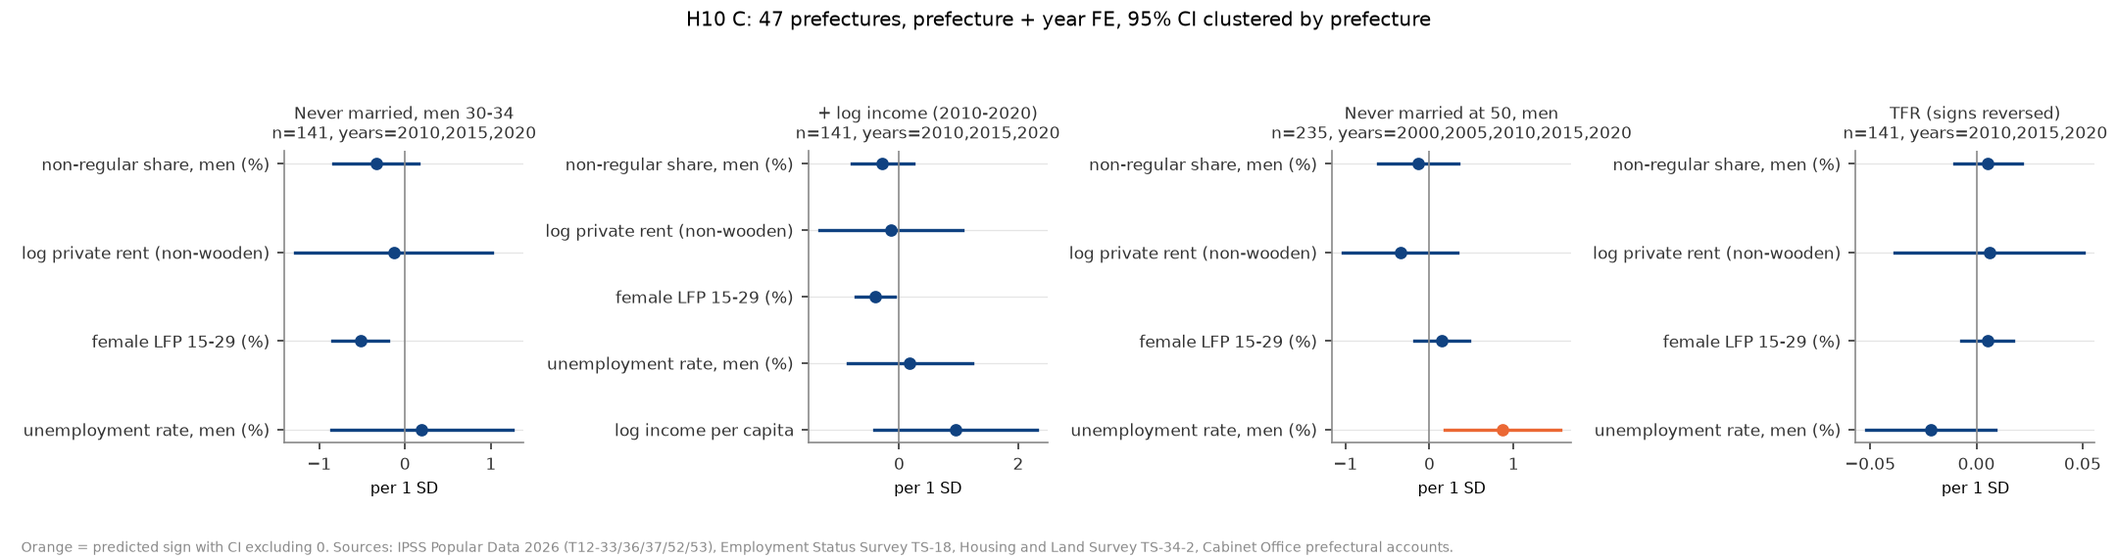
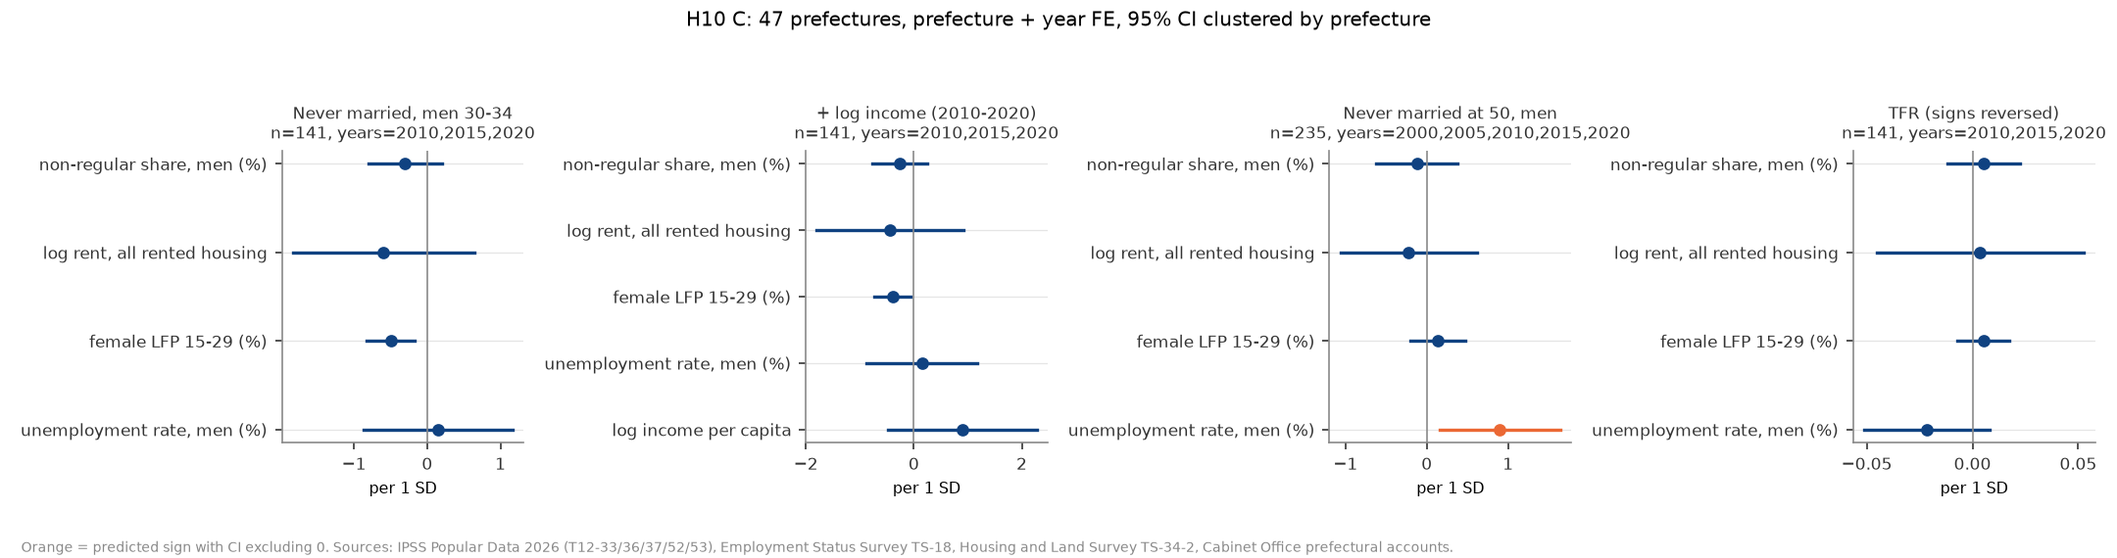
fix(growth-fertility): H10 review 対応（盲検でない旨、範囲の限定、家賃を借家総数に、検出力と残差の注記）

diff --git a/themes/growth-fertility/src/theme_growth_fertility/analysis/a20261018_h10_family_formation.py b/themes/growth-fertility/src/theme_growth_fertility/analysis/a20261018_h10_family_formation.py
@@ -20,7 +20,9 @@ A・B・C、判定規則、
   A(失業)・C(所得・失業)、
      W = C(女性労働力率)。適用できる検定の過半で「予測符号かつ CI∌0」なら支持。
 
-運用の細則（design に書かれていない点。最初の実行より前にここで固定し、stdout の冒頭に出す）:
+運用の細則（design に書かれていない点。stdout の冒頭に要点を出す）。
+細則は mart の構造（欠落年・時点数）を見た後に書いたもので盲検ではない。
+実行前に固定したことは commit 履歴では確かめられない。
   - A の結果変数の出典は国ごとに 1 つ: 日本は IPSS T06-12（初婚年齢）、Eurostat の 16 か国は
       demo_nind
     （FAGEMAR1・GNUPRT）、それ以外（英・米・韓、日本の婚姻率）は OECD SF3.1（MAFM・CMR）。第 1 子
@@ -38,8 +40,10 @@ A・B・C、判定規則、
     細分類（パート・アルバイト・
     派遣・契約）の和に両年でそろえる（定義をそろえた下限）。
   - C の説明変数: 非正規比率 = 男性 非正規 /（正規 + 非正規）%（総数は探索的に併記）、家賃 = log
-      民営借家
-    （非木造）1 か月家賃、女性労働力率 = 女 15–29 歳（T12-52）、失業率 = 男（T12-53）、所得 = log 1
+      借家総数の
+      1 か月家賃（review 後に主仕様へ。最初の実行の主仕様は民営借家（非木造）で、それを選んだのは
+      事後の選択。非木造版は頑健性として併記）、女性労働力率 = 女 15–29 歳（T12-52）、失業率 =
+      男（T12-53）、所得 = log 1
     人当たり
     県民所得。最近傍年は ±5 年（同距離は前の年）。女性労働力率は 1980/2000/2010/2020 しか無いため、
     主仕様は事実上 2010/2015/2020 になる（1990 は女性労働力率なしの仕様を探索的に併記）。
@@ -118,7 +122,14 @@ A_X = ("temp", "une", "hpi")
 A_SIGN = {"fagem": 1, "cmr": -1, "tfr1": -1}  # sign of y-response to a rise in any A_X
 A_X_OF = {"E": "temp", "H": "hpi", "Y": "une"}
 C_X = ("nonreg", "ln_rent", "flfp", "unemp")
-C_SIGN = {"nonreg": 1, "ln_rent": 1, "flfp": 1, "unemp": 1, "ln_inc": -1}  # for never-married
+C_SIGN = {
+    "nonreg": 1,
+    "ln_rent": 1,
+    "ln_rent_nw": 1,
+    "flfp": 1,
+    "unemp": 1,
+    "ln_inc": -1,
+}  # for never-married
 CONSTRAINTS = ("E", "H", "Y", "W")
 CONSTRAINT_JA = {
     "E": "若年層の雇用の不安定さ（非正規化）",
@@ -134,7 +145,8 @@ LABEL = {
     "cmr": "crude marriage rate (per 1,000)",
     "tfr1": "1st-birth TFR",
     "nonreg": "non-regular share, men (%)",
-    "ln_rent": "log private rent (non-wooden)",
+    "ln_rent": "log rent, all rented housing",
+    "ln_rent_nw": "log private rent (non-wooden)",
     "flfp": "female LFP 15-29 (%)",
     "unemp": "unemployment rate, men (%)",
     "ln_inc": "log income per capita",
@@ -180,7 +192,9 @@ def fit_std(
     model = smf.ols(formula, data=pdf)
     exog = model.exog
     if int(np.linalg.matrix_rank(exog)) < exog.shape[1] or exog.shape[0] <= exog.shape[1]:
-        return None  # regressor collinear with the FE (no within variation) or no residual df
+        # Added after the first run (which showed a spurious +0.86 for private rent): a regressor
+        # collinear with the FE (no within variation) or no residual df is not estimated.
+        return None
     res = model.fit(cov_type="cluster", cov_kwds={"groups": pdf[unit]})
     ci = res.conf_int()
     coefs = {
@@ -276,6 +290,8 @@ def framed_stance(
     gap: float,
     passed: Mapping[str, Sequence[str]],
     robust_changes: Sequence[str],
+    women_comp: float,
+    women_e: str,
 ) -> str:
     """Reporting sentence: the pre-registered pattern plus the qualifications the results need."""
     head = final_stance(lead, comp_share)
@@ -290,7 +306,13 @@ def framed_stance(
         f"{head}"
         f"{comp_clause(comp_share, comp_lower)}、同じ雇用形態の中での上昇が "
         f"{rate_share:.0%} である。2022 年の 30–34 歳男性では非正規の未婚率が正規より "
-        f"{abs(gap):.1f} ポイント高いが、この差は逆の因果（未婚だから非正規）を含む。"
+        f"{abs(gap):.1f} ポイント高いが、この差は逆の因果（未婚だから非正規）と自己選択を含む。"
+        "この「大半」は男性 25–39 歳の分解（主）に基づく。女性（補助）では上昇の "
+        f"{women_comp:.0%} が正規化という構成の変化で、逆の因果（未婚だから正規を続ける）とも"
+        f"読める。女性の仕様では E が {women_e}。"
+        "都道府県パネルは検出力が低く（47 県 × 3 時点、CI は 1 SD あたり ±1 ポイント超）、"
+        "関連が無いことを示したのではない。"
+        "「同じ条件の中で」進んだ分は測れた制約で説明できなかった残差であり、選好の証拠ではない。"
         f"{tested}。{rob}。すべて関連で、因果効果ではない。"
     )
 
@@ -559,7 +581,8 @@ def pref_obs(pref: pl.DataFrame) -> dict[str, dict[str, dict[int, float]]]:
         "tfr": get("tfr", "T"),
         "nonreg": ratio("M"),
         "nonreg_t": ratio("T"),
-        "ln_rent": log(get("rent_private_nonwood", "T")),
+        "ln_rent": log(get("rent", "T")),
+        "ln_rent_nw": log(get("rent_private_nonwood", "T")),
         "ln_rent_priv": log(get("rent_private", "T")),
         "ln_inc": log(get("income_per_capita", "T")),
         "flfp": get("lfp", "F", "15-29"),
@@ -1006,6 +1029,9 @@ def compute(d: Mapping[str, pl.DataFrame]) -> H10Result:
         cfi, "nm3034", ("nonreg", "ln_rent_priv", "flfp", "unemp", "ln_inc")
     )
 
+    xs_nw = ("nonreg", "ln_rent_nw", "flfp", "unemp")
+    c_specs["rent_nw"] = run_c(cf, "nm3034", xs_nw)
+    c_specs["rent_nw_inc"] = run_c(cfi, "nm3034", (*xs_nw, "ln_inc"))
     robust: dict[str, Verdict] = {}
     for k, fits in a_for_judge.items():
         robust[f"A {k}"] = judge(Inputs(fits, b, c_main, c_inc))
@@ -1015,6 +1041,9 @@ def compute(d: Mapping[str, pl.DataFrame]) -> H10Result:
     robust["C outcome TFR"] = judge(Inputs(a, b, c_specs["tfr"], c_specs["tfr_inc"], c_flip=True))
     robust["C private rent"] = judge(
         Inputs(a, b, c_specs["rent_priv"], c_specs["rent_priv_inc"], c_rent="ln_rent_priv")
+    )
+    robust["C non-wooden private rent (first-run main)"] = judge(
+        Inputs(a, b, c_specs["rent_nw"], c_specs["rent_nw_inc"], c_rent="ln_rent_nw")
     )
     changes = [
         f"{k} で {'・'.join(r.supported) or 'なし'} が支持・主要 {r.lead or 'なし'}"
@@ -1031,6 +1060,8 @@ def compute(d: Mapping[str, pl.DataFrame]) -> H10Result:
         gap=gap,
         passed=v.names,
         robust_changes=changes,
+        women_comp=fdc.comp_share,
+        women_e=f"{sum(robust['B women 25-39'].tests['E'])}/3",
     )
     return H10Result(a, b, bl, gap, c_main, c_inc, v, final, framed, robust, b_rows, c_specs, a_alt)
 
@@ -1104,6 +1135,16 @@ def section_c(res: H10Result, fig_dir: Path) -> None:
         "nm50_inc": ("never married at 50 + income", (*C_X, "ln_inc"), False),
         "tfr": ("TFR", C_X, True),
         "tfr_inc": ("TFR + income", (*C_X, "ln_inc"), True),
+        "rent_nw": (
+            "nm3034, non-wooden private rent",
+            ("nonreg", "ln_rent_nw", "flfp", "unemp"),
+            False,
+        ),
+        "rent_nw_inc": (
+            "nm3034, non-wooden private rent + income",
+            ("nonreg", "ln_rent_nw", "flfp", "unemp", "ln_inc"),
+            False,
+        ),
         "rent_priv": (
             "nm3034, private rent (2018-)",
             ("nonreg", "ln_rent_priv", "flfp", "unemp"),

diff --git a/themes/growth-fertility/tests/test_analysis_h10.py b/themes/growth-fertility/tests/test_analysis_h10.py
@@ -95,9 +95,12 @@ def test_framed_stance_lists_passes_and_changes() -> None:
         gap=-36.1,
         passed={"E": [], "Y": ["A 若年失業"]},
         robust_changes=["C outcome nm50 で Y が支持"],
+        women_comp=0.545,
+        women_e="1/3",
     )
     assert s.startswith("測れた制約では確かめられず")
     assert "Y（A 若年失業）" in s and "36.1 ポイント" in s and "C outcome nm50" in s
+    assert "女性の仕様では E が 1/3" in s and "選好の証拠ではない" in s and "検出力が低く" in s
 
 
 # ---------------------------------------------------------------- decomposition

diff --git a/themes/growth-fertility/reports/2026-10-18-h10-family-formation.md b/themes/growth-fertility/reports/2026-10-18-h10-family-formation.md
@@ -1,10 +1,10 @@
 # H10: 日本・南欧で結婚と第 1 子を阻んでいる制約は何か（2026-10-18, theme: growth-fertility）
 
 ## 要約（5 行）
-- **測れた制約では確かめられず、未婚化の大半は同じ雇用形態・同じ地域条件の中で進んだ。** 雇用の不安定さ（E）・住宅費（H）・所得と失業（Y）・女性の就業（W）のうち、事前の判定規則で支持された制約は一つもない（E 0/3、H 0/2、Y 1/2、W 0/1）。
+- **測れた制約では確かめられず、未婚化の大半は同じ雇用形態・同じ地域条件の中で進んだ。** 雇用の不安定さ（E）・住宅費（H）・所得と失業（Y）・女性の就業（W）のうち、事前の判定規則で支持された制約は一つもない（E 0/3、H 0/2、Y 1/2、W 0/1）。この「大半」は男性 25–39 歳の分解（主）に基づく。女性（補助）では上昇の半分強（54%）が正規化という構成の変化で、逆の因果（未婚だから正規を続ける）とも読める。女性の仕様では E が 1/3 になる。都道府県パネル（C）は検出力が低く（47 県 × 3 時点、CI は 1 SD あたり ±1 ポイント超）、関連が無いことを示したのではない。「同じ条件の中で」進んだ分は測れた制約で説明できなかった残差であって、選好の証拠ではない。
 - 日本の直接の分解（検定 B、主）では、男性 25–39 歳の未婚率は 2012 → 2022 年に 49.8% → 54.9%（+5.0 ポイント）上がった。このうち 95% は同じ雇用形態の中での上昇である。雇用形態の構成はむしろ正規に寄っており、構成の変化の寄与は −17% と逆向きだった（2007 年から定義をそろえると −5%）。2022 年の 30–34 歳男性では非正規の未婚率（80.0%）が正規（43.8%）より 36.1 ポイント高い。ただしこの差は「未婚だから非正規」という逆向きの関係を含み、しかも差は正規・非正規・その他のどの区分でも未婚率が上がる中で保たれている。
-- 国 × 年パネル（検定 A、19 か国の 5 年差分）では、若年失業率の上昇が婚姻率の低下（1 標準偏差あたり −0.18／千人）・第 1 子 TFR の低下（−0.027）と関連し、Y の A 検定だけが通った。有期雇用は女性の初婚年齢とだけ関連し（+0.11 歳）、住宅価格対所得比はどの結果とも関連しない。都道府県パネル（検定 C）では、非正規比率・家賃・失業率・所得のいずれも予測の符号で 95% CI が 0 を含まない結果にならなかった。若い女性の労働力率は予測と逆の符号（−0.52 ポイント）だった。
-- 事前の頑健性 13 仕様のうち、判定が変わるのは 1 つだけである。C の結果変数を 50 歳時未婚率にすると、失業率が予測の符号で CI∌0（+0.87）となり、Y が 2/2 で支持される。この仕様では文型は「主要な制約は所得・失業」になる。家賃を民営借家に替える仕様は、民営借家の家賃が 2018・2023 年しか無く、最近傍の割り当てでは県内の変動が残らず、推定できなかった。
+- 国 × 年パネル（検定 A、19 か国の 5 年差分）では、若年失業率の上昇が婚姻率の低下（1 標準偏差あたり −0.18／千人）・第 1 子 TFR の低下（−0.027）と関連し、Y の A 検定だけが通った。有期雇用は女性の初婚年齢とだけ関連し（+0.11 歳）、住宅価格対所得比はどの結果とも関連しない。南欧 4 か国だけの仕様では有期雇用 → 初婚年齢と若年失業 → 婚姻率が CI∌0 になるが、4 クラスタの SE は信頼できない。都道府県パネル（検定 C、家賃は借家総数）では、非正規比率・家賃・失業率・所得のいずれも予測の符号で 95% CI が 0 を含まない結果にならなかった。若い女性の労働力率は予測と逆の符号（−0.50 ポイント）だった。
+- 事前の頑健性 13 仕様（＋最初の実行の主仕様だった非木造家賃版）のうち、判定が変わるのは 1 つだけである。C の結果変数を 50 歳時未婚率にすると、失業率が予測の符号で CI∌0（+0.90）となり、Y が 2/2 で支持される。この仕様では文型は「主要な制約は所得・失業」になる。家賃を民営借家に替える仕様は、民営借家の家賃が 2018・2023 年しか無く、最近傍の割り当てでは県内の変動が残らず、推定できなかった。
 - これは part5 の後に立てた**事後追加**の検証で、H8〜H9 の判定は変えない。すべて関連であり因果効果ではない。国・都道府県の集計の関係を個人に読み替えてはいない。
 
 ## 問いと仮説
@@ -16,11 +16,11 @@
 
 **事後追加であること**: 検定・判定基準・文型・頑健性・言えないことは、追加データを見る前に design に固定した。検定 B の分母は、第 1-1 表の配偶関係列が単身者の内訳と分かったため、データを見た後・分析の前に「有業者 ＋ 無業者」に差し替えた（design 最終段落）。
 
-**運用の細則**（design に無い点。最初の実行より前にスクリプトの docstring で固定し、stdout の冒頭に要点を出した）:
+**運用の細則**（design に無い点。スクリプトの docstring に書き、stdout の冒頭に要点を出した）。**細則は mart の構造（欠落年・時点数）を見た後に書いたもので、盲検ではない。実行前に固定したことは commit 履歴では確かめられない。**
 - A の結果変数の出典は国ごとに 1 つに固定した。日本の初婚年齢は IPSS T06-12、Eurostat の 16 か国は demo_nind（FAGEMAR1・GNUPRT）、残り（英・米・韓、日本の婚姻率）は OECD SF3.1。第 1 子 TFR は欧州 `eu_tfr_by_birth_order` の順位 1、日本 T04-16、韓国は TFR × 第 1 子割合の近似（H9 と同じ）。説明変数は 19 か国とも OECD。差分の端点は ±2 年の最近傍（H8 と同じ）。推定は n ≥ 10 かつ 5 か国以上（南欧・北欧の頑健性は 4 か国）。
 - A の 1 説明変数の検定は「推定できた結果変数の過半で予測符号かつ CI∌0」。
 - B のセルは年齢 5 歳階級 × {正規・非正規・その他}。その他 = 15 歳以上人口 − 正規 − 非正規で、役員・自営・無業を含む。年齢構成の変化は別の項に分けた（Δ = 雇用形態内 ＋ 雇用構成 ＋ 年齢構成、恒等式）。構成効果の割合 = 雇用構成の項 / Δ。2007 → 2022 は非正規を両年とも 4 細分類（パート・アルバイト・派遣・契約）の和にそろえた。
-- C の説明変数: 非正規比率 = 男性 非正規 /（正規 ＋ 非正規）、家賃 = log 民営借家（非木造）、女性労働力率 = 女 15–29 歳、失業率 = 男、所得 = log 1 人当たり県民所得。最近傍は ±5 年（同距離は前の年）。女性労働力率は 1980/2000/2010/2020 しか無いので、1990 年は落ち、主仕様は事実上 2010/2015/2020 になった（2015 年の女性労働力率は 2010 年の値）。
+- C の説明変数: 非正規比率 = 男性 非正規 /（正規 ＋ 非正規）、家賃 = log 借家総数の家賃（design の一般の「家賃」。最初の実行では民営借家（非木造）を主仕様にしたが、それを選んだ理由は書いておらず事後の選択である。review の指摘で借家総数を主仕様にし、非木造版は併記した。判定は同じ）、女性労働力率 = 女 15–29 歳、失業率 = 男、所得 = log 1 人当たり県民所得。最近傍は ±5 年（同距離は前の年）。女性労働力率は 1980/2000/2010/2020 しか無いので、1990 年は落ち、主仕様は事実上 2010/2015/2020 になった（2015 年の女性労働力率は 2010 年の値）。
 - C の予測符号: 非正規・家賃・失業・女性労働力率 ↑ → 未婚 ↑、所得 ↑ → 未婚 ↓（TFR は全部逆）。女性労働力率の符号は「女性の就業が両立の制約になる」読み（W）で固定した。C の Y 検定は、所得か失業率の一方が予測符号で CI∌0、かつどちらも逆符号で CI∌0 でないこと。
 - 主要な制約の決め方: 支持された制約のうち通った検定が最多のもの。同点は B を通ったもの（E）を優先し、なお同点なら通った割合、さらに E・H・Y・W の順。
 
@@ -76,12 +76,16 @@ mart: `data/marts/oecd_family_formation.parquet`（16,062 行）、`eu_family_fo
 ### C 都道府県パネル（`figures/h10_c_prefecture_panel.png`）
 | 仕様 | n（年） | 非正規比率 | log 家賃 | 女性労働力率 15–29 | 失業率（男） | log 所得 |
 |---|---|---|---|---|---|---|
-| **男 30–34 未婚（主）** | 141（2010/15/20） | −0.338 [−0.838, +0.163] | −0.133 [−1.278, +1.011] | −0.522 [−0.848, −0.196]（逆符号） | +0.196 [−0.864, +1.256] | — |
-| ＋所得（短いパネル） | 141（2010/15/20） | −0.281 [−0.798, +0.235] | −0.144 [−1.347, +1.059] | −0.402 [−0.729, −0.074]（逆符号） | +0.181 [−0.872, +1.234] | +0.943 [−0.423, +2.308] |
+| **男 30–34 未婚（主、家賃 = 借家総数）** | 141（2010/15/20） | −0.301 [−0.803, +0.201] | −0.596 [−1.835, +0.642] | −0.499 [−0.831, −0.168]（逆符号） | +0.149 [−0.871, +1.169] | — |
+| ＋所得（短いパネル） | 141（2010/15/20） | −0.257 [−0.769, +0.255] | −0.438 [−1.802, +0.926] | −0.392 [−0.725, −0.060]（逆符号） | +0.153 [−0.874, +1.179] | +0.900 [−0.474, +2.273] |
+| 家賃 = 民営借家（非木造）（最初の実行の主仕様） | 141 | −0.338 [−0.838, +0.163] | −0.133 [−1.278, +1.011] | −0.522 [−0.848, −0.196]（逆符号） | +0.196 [−0.864, +1.256] | — |
+| 同 ＋所得 | 141 | −0.281 [−0.798, +0.235] | −0.144 [−1.347, +1.059] | −0.402 [−0.729, −0.074]（逆符号） | +0.181 [−0.872, +1.234] | +0.943 [−0.423, +2.308] |
 
-単位は 1 SD あたりの未婚割合のポイント。E・H・Y・W の C 検定はすべて不成立（女性労働力率は CI∌0 だが逆符号）。
+単位は 1 SD あたりの未婚割合のポイント。主仕様が 3 時点になったのは、女性労働力率（T12-52）が 1980/2000/2010/2020 しか無く、±5 年の最近傍で 1990 年に値が付かないためである（1990 年を残した仕様は探索的 E2）。E・H・Y・W の C 検定はすべて不成立（女性労働力率は CI∌0 だが逆符号）。
 
 ### 判定
+C はいずれも 47 県 × 3 時点（2010/2015/2020）で、上の理由で 1990 年が落ちている。
+
 | 制約 | 通った検定 / 適用 | 判定 |
 |---|---|---|
 | E 雇用の不安定さ | 0/3（A 有期 1/3、B −17%、C 非正規 n.s.） | 不支持 |
@@ -91,7 +95,7 @@ mart: `data/marts/oecd_family_formation.parquet`（16,062 行）、`eu_family_fo
 
 事前の文型（`final_stance`）: 「測れた制約では確かめられず、未婚化の大半は同じ雇用形態・同じ地域条件の中で進んだ。」
 
-報告用の文（`framed_stance`、文型に限定を付けたもの）: 「測れた制約では確かめられず、未婚化の大半は同じ雇用形態・同じ地域条件の中で進んだ。男性 25–39 歳では雇用形態の構成はむしろ正規に寄り、構成の変化は未婚率の上昇の -17%（2007 年からの定義をそろえた比較では -5%）と逆向きで、同じ雇用形態の中での上昇が 95% である。2022 年の 30–34 歳男性では非正規の未婚率が正規より 36.1 ポイント高いが、この差は逆の因果（未婚だから非正規）を含む。通った検定は Y（A 若年失業）。頑健性の仕様では判定が変わるものがある（C outcome nm50 で Y が支持・主要 Y）。すべて関連で、因果効果ではない。」
+報告用の文（`framed_stance`、文型に限定を付けたもの）: 「測れた制約では確かめられず、未婚化の大半は同じ雇用形態・同じ地域条件の中で進んだ。男性 25–39 歳では雇用形態の構成はむしろ正規に寄り、構成の変化は未婚率の上昇の -17%（2007 年からの定義をそろえた比較では -5%）と逆向きで、同じ雇用形態の中での上昇が 95% である。2022 年の 30–34 歳男性では非正規の未婚率が正規より 36.1 ポイント高いが、この差は逆の因果（未婚だから非正規）と自己選択を含む。この「大半」は男性 25–39 歳の分解（主）に基づく。女性（補助）では上昇の 54% が正規化という構成の変化で、逆の因果（未婚だから正規を続ける）とも読める。女性の仕様では E が 1/3。都道府県パネルは検出力が低く（47 県 × 3 時点、CI は 1 SD あたり ±1 ポイント超）、関連が無いことを示したのではない。「同じ条件の中で」進んだ分は測れた制約で説明できなかった残差であり、選好の証拠ではない。通った検定は Y（A 若年失業）。頑健性の仕様では判定が変わるものがある（C outcome nm50 で Y が支持・主要 Y）。すべて関連で、因果効果ではない。」
 
 「同じ地域条件の中で」は、都道府県パネルで測れた条件の差が未婚率の変化と関連しなかったという意味である。条件が一定だったという意味ではない。
 
@@ -111,30 +115,32 @@ mart: `data/marts/oecd_family_formation.parquet`（16,062 行）、`eu_family_fo
 | **C 結果を 50 歳時未婚（男）に** | 0/3 | 0/2 | **2/2** | 0/1 | **Y** |
 | C 結果を TFR に | 0/3 | 0/2 | 1/2 | 0/1 | なし |
 | C 家賃を民営借家に | 推定不能（下記） | | | | なし |
+| C 家賃を民営借家（非木造）に（最初の実行の主仕様） | 0/3 | 0/2 | 1/2 | 0/1 | なし |
 
 - 南欧 4 か国では有期雇用 → 初婚年齢（+0.26 [+0.01, +0.51]）と若年失業 → 婚姻率（−0.42 [−0.70, −0.13]）が CI∌0 だが、4 クラスタの SE は信頼できない。
-- 50 歳時未婚（2000–2020、235 県・年）では失業率が +0.87 [+0.18, +1.56] で CI∌0。所得を加えた短いパネルでは +0.60 [−0.22, +1.41] で 0 を含む。50 歳時未婚は 1970 年代以前生まれの結婚の結果で、2000 年代以降の県の失業率と時期がずれている。
-- 民営借家の家賃は 2018・2023 年しか無い。最近傍の規則では 2015・2020 年とも 2018 年の値が入り、県内の変動が残らないため FE と完全に共線になる（スクリプトはこれを検出して推定しない）。最初の実行ではこの検出が無く、見かけの係数（+0.86）が出ていた。検出を足して再実行した。
+- 50 歳時未婚（2000–2020、235 県・年）では失業率が +0.90 [+0.16, +1.64] で CI∌0。所得を加えた短いパネルでは +0.62 [−0.18, +1.43] で 0 を含む。（事後の解釈）50 歳時未婚は 1970 年代以前生まれの結婚の結果で、2000 年代以降の県の失業率と時期がずれている。
+- 民営借家の家賃は 2018・2023 年しか無い。最近傍の規則では 2015・2020 年とも 2018 年の値が入り、県内の変動が残らないため FE と完全に共線になる（スクリプトはこれを検出して推定しない）。この検出（`fit_std` の rank 検査）は**最初の実行の後に追加した**。最初の実行では検出が無く、見かけの係数（+0.86）が出ていたのを見て足し、再実行した。
 
 ## 探索的（事前登録なし・判定外）
 - **E1** 「その他」を有業（役員・自営）と無業に分けた 4 区分: 構成 −13.6%、雇用形態内 91.6%。結論は同じ。
-- **E2** 女性労働力率を外し 1990 年を残した C（188 件）: 非正規 −1.29 [−4.64, +2.06]、家賃 −0.61、失業 +0.61、いずれも 0 を含む。
-- **E3** 非正規比率を男女計に: −0.71 [−1.37, −0.05]。予測と逆符号で CI∌0。
-- **E4** 女性労働力率を 30–44 歳に: −1.63 [−3.04, −0.23]（逆符号）。30–44 歳は結婚・出産後の就業も含むので、機械的な関係が強い。
+- **E2** 女性労働力率を外し 1990 年を残した C（188 件）: 非正規 −1.43 [−4.88, +2.02]、家賃 +0.47、失業 +0.87、いずれも 0 を含む。
+- **E3** 非正規比率を男女計に: −0.67 [−1.34, −0.01]。予測と逆符号で CI∌0。
+- **E4** 女性労働力率を 30–44 歳に: −1.57 [−2.98, −0.15]（逆符号）。30–44 歳は結婚・出産後の就業も含むので、機械的な関係が強い。
 - **E5** 男 30–34 の雇用形態内の未婚率は、正規 +3.9、非正規 +7.1、その他 +11.1 ポイント（2012 → 2022）。どの区分でも上がった。
 - **E6** 民営借家の家賃を「次の調査」に割り当て（2015 ← 2018、2020 ← 2023）: +1.11 [−1.93, +4.16]、0 を含む。
-- **E7** C の説明変数を 1 本ずつ: 非正規 −0.80、家賃 −0.73、失業 +0.58（いずれも 0 を含む）、女性労働力率 −0.46（逆符号）。所得だけを入れると +1.32 [+0.12, +2.53] で、**所得が伸びた県ほど未婚率が上がった**（予測と逆）。同時推定で n.s. になるのは共線ではなく、単独でも予測の向きには出ない。
-- 新しい論点: 女性の未婚率の上昇は半分強が「正規で働く女性が増えた」構成の変化で、正規の女性は未婚率が高い（2022 年 30–34 歳: 正規 45.0%、非正規 36.9%）。男性とは逆向きで、「雇用が安定すれば結婚する」は女性には当てはまらない。ただし未婚の女性が正規で働き続ける（結婚・出産で非正規・無業に移る）という逆向きの関係がほぼそのまま出ている可能性が高く、W の制約を示すものではない。
+- **E7** C の説明変数を 1 本ずつ: 非正規 −0.80、家賃 +0.18、失業 +0.58（いずれも 0 を含む）、女性労働力率 −0.46（逆符号）。所得だけを入れると +1.32 [+0.12, +2.53] で、**所得が伸びた県ほど未婚率が上がった**（予測と逆）。同時推定で n.s. になるのは共線ではなく、単独でも予測の向きには出ない。
+- 新しい論点: 女性の未婚率の上昇は半分強が「正規で働く女性が増えた」構成の変化で、正規の女性は未婚率が高い（2022 年 30–34 歳: 正規 45.0%、非正規 36.9%）。女性では正規の方が未婚率が高く、男性と向きが逆である。ただし未婚の女性が正規で働き続ける（結婚・出産で非正規・無業に移る）という逆向きの関係がほぼそのまま出ている可能性が高く、W の制約を示すものではない。
 
 ## 限界・言えないこと
 - **すべて関連で、因果ではない**。FE は時間不変の差と共通ショックを除くだけで、時間とともに変わる交絡（都市化、教育の伸び、価値観）は残る。
-- **逆の因果**: 非正規と未婚の差（36 ポイント）は、「未婚だから非正規でもよい」「結婚すると正規を目指す」を含む。B の雇用形態内の上昇（95%）は、この差の大きさとは別に、どの区分でも未婚率が上がったことを示す。それでも「雇用形態がもし変わらなければ」という反実仮想ではない。
+- **逆の因果と自己選択**: 非正規と未婚の差（36 ポイント）は、「未婚だから非正規でもよい」「結婚すると正規を目指す」という逆向きの関係と、結婚しやすい人が正規に就きやすいという自己選択（学歴・健康・地域など）を含む。
+- **「その他」の中身が粗い**: 「その他」には役員・自営と無業が混ざる。無業を分けても雇用形態内の割合は 91.6%（E1）で結論は同じだが、雇用形態内の上昇の中身（どの働き方で何が起きたか）は 3 区分では粗い。B の雇用形態内の上昇（95%）は、この差の大きさとは別に、どの区分でも未婚率が上がったことを示す。それでも「雇用形態がもし変わらなければ」という反実仮想ではない。
 - **「選好側で進んだ」とは言えない**: 測れた制約（雇用形態・家賃・所得・失業・女性就業）で説明されなかったというだけで、測れていない制約（労働時間、賃金の伸び、職の将来見通し、出会いの機会、男女の役割分担）が残る。design の文型の「同じ条件の中で結婚しなくなった分」は、この意味の残差である。
 - **都道府県パネルは実質 3 時点（2010/2015/2020）**で、人口移動（若年層の都市集中）を補正しない。県の未婚割合は流入・流出の構成で動く。2015 年の女性労働力率は 2010 年の値。
 - **南欧の有期雇用と日本の非正規は制度が違う**。A は日本の非正規化を直接は検定していない。住宅対所得比は指数で、水準（どの国が高いか）は比べられない。
 - **国レベルの関係を個人に読み替えない**: 「若年失業が増えた国・時期に婚姻率が下がった」は、失業した個人が結婚しないことを示さない。
 - **2007 年の非正規は下限**（嘱託・その他を含まない）。2007 → 2022 は両年を 4 細分類にそろえたので、この比較は「パート・アルバイト・派遣・契約」の構成の変化である。
-- **閾値と細則**: B の 30%、A の 3 結果の過半、C の Y 検定の「どちらか一方」は事前固定または実行前に固定した。所得の短いパネルは 47 県 × 3 時点で検出力が低い。
+- **閾値と細則**: B の 30%、A の 3 結果の過半、C の Y 検定の「どちらか一方」は事前固定（B）または細則（A・C、mart の構造を見た後に記述、盲検ではない）である。所得の短いパネルは 47 県 × 3 時点で検出力が低い。
 
 ## 再現手順
 ```bash
@@ -147,7 +153,7 @@ uv run pytest themes/growth-fertility/tests/test_analysis_h10.py themes/growth-f
 乱数は使っていない。2 回実行して stdout・5 枚の PNG（`figures/h10_*.png`）・記事用 5 枚と `captions.md` の sha1 が一致することを確認した。数値の出所はすべて `2026-10-18-h10-family-formation.stdout.txt`。出典表記: OECD (2026), House prices / Temporary employment / LFS indicators (sdmx.oecd.org) and Family Database SF3.1 (accessed 2026-10-18)。Source: Eurostat, demo_nind / eu_tfr_by_birth_order（accessed 2026-10-06, 2026-10-18）。出典：政府統計の総合窓口(e-Stat)、就業構造基本調査・住宅・土地統計調査（総務省）を加工。内閣府『県民経済計算（2022 年度）』総括表 7 を加工。国立社会保障・人口問題研究所『人口統計資料集 2026』（PDL1.0）。국가데이터처, 2025년 출생 통계 보도자료（KOGL 제1유형）。
 
 ## チェックリスト回答
-- **A 問いと事前登録**: 検定 A・B・C、判定規則、文型、頑健性、言えないことは追加データを見る前に design の H10 節に固定した。事後追加であり、H8〜H9 の判定は変えないと明記した。B の分母の差し替えは、データを見た後・分析の前の変更として design と本文に書いた。design に無い細則（出典の割り当て、A の 3 結果の過半、B のセル、C の変数の選択と符号、最近傍 ±5 年、Y の C 検定、同点処理）はスクリプトの docstring に実行前に固定した。探索的 E1〜E7 は判定外と明記した。推定量は各検定の冒頭に書いた。
+- **A 問いと事前登録**: 検定 A・B・C、判定規則、文型、頑健性、言えないことは追加データを見る前に design の H10 節に固定した。事後追加であり、H8〜H9 の判定は変えないと明記した。B の分母の差し替えは、データを見た後・分析の前の変更として design と本文に書いた。design に無い細則（出典の割り当て、A の 3 結果の過半、B のセル、C の変数の選択と符号、最近傍 ±5 年、Y の C 検定、同点処理）はスクリプトの docstring に書いた。mart の構造を見た後に書いたもので盲検ではなく、実行前の固定は commit 履歴では確かめられない。家賃の変数（非木造）は事後の選択で、review 後に借家総数を主仕様にした。共線検出は最初の実行の後に追加した。探索的 E1〜E7 は判定外と明記した。推定量は各検定の冒頭に書いた。
 - **B データ**: 全変数の出典・定義・単位・期間を表に書いた。欠損は補完していない（listwise）。2007 年の非正規、女性労働力率の 1990 年欠落、民営借家家賃の 2 時点、第 1 子 TFR の国の欠け、韓国の近似、指数である住宅対所得比を列挙した。
 - **C 識別戦略**: 固定効果（国＋期間、県＋年）のみで、因果の識別戦略はない。逆の因果（未婚 → 非正規）、時間とともに変わる交絡（都市化・人口移動）を限界に挙げた。国・県の関係を個人に読み替えていない。
 - **D 推定と不確実性**: SE は国（19）・都道府県（47）でクラスタ（同じ単位内の系列相関のため）。南欧・北欧の 4 クラスタは信頼できないと書いた。事前の頑健性 13 仕様をすべて表にし、判定が変わる 1 仕様を要約に書いた。推定できなかった仕様（差分幅 10 年の第 1 子 TFR、民営借家）も残した。

diff --git a/themes/growth-fertility/reports/figures/summary_h10/captions.md b/themes/growth-fertility/reports/figures/summary_h10/captions.md
@@ -10,6 +10,6 @@
 
 - `h10s01_never_married_by_employment.png`: 30〜34 歳男性の未婚率は全体で 46.1%（2007）→ 51.5%（2022）、正社員 40.7% → 43.8%、非正規 72.9%（2012）→ 80.0%。2022 年の正社員と非正規の差は 36.1 ポイント。
 - `h10s02_kitagawa.png`: 男性 25〜39 歳の未婚率の上昇 +5.0 ポイント（2012→2022）のうち、同じ働き方の中での上昇が 95%、働き方の構成の変化は -17%（非正規の割合が下がったため逆向き）。女性は構成の分が 54%（正社員の割合が上がり、正社員の女性は未婚率が高い）。
-- `h10s03_prefecture_coefficients.png`: 47 都道府県・2010・2015・2020 年の比較で、30〜34 歳男性の未婚率と、非正規の割合 -0.34・家賃 -0.13・失業率 +0.20（ポイント／1 標準偏差）はいずれも 95% 信頼区間が 0 を含む。若い女性の労働力率は -0.52 で、予測と逆向き。
+- `h10s03_prefecture_coefficients.png`: 47 都道府県・2010・2015・2020 年の比較で、30〜34 歳男性の未婚率と、非正規の割合 -0.30・家賃 -0.60・失業率 +0.15（ポイント／1 標準偏差）はいずれも 95% 信頼区間が 0 を含む。若い女性の労働力率は -0.50 で、予測と逆向き。
 - `h10s04_country_coefficients.png`: 19 か国の 5 年差分で、若年失業率が 1 標準偏差多く増えた区間は婚姻率が -0.18（人口千人当たり）、第 1 子の出生率が -0.027。有期雇用は女性の初婚年齢 +0.11 歳だけ、住宅価格はどれも 0 を含む。
 - `h10s05_japan_long_run.png`: 30〜34 歳男性の未婚率は 11.7%（1970）→ 51.8%（2020）、妻の平均初婚年齢は 24.2 歳 → 29.8 歳（2024）。
